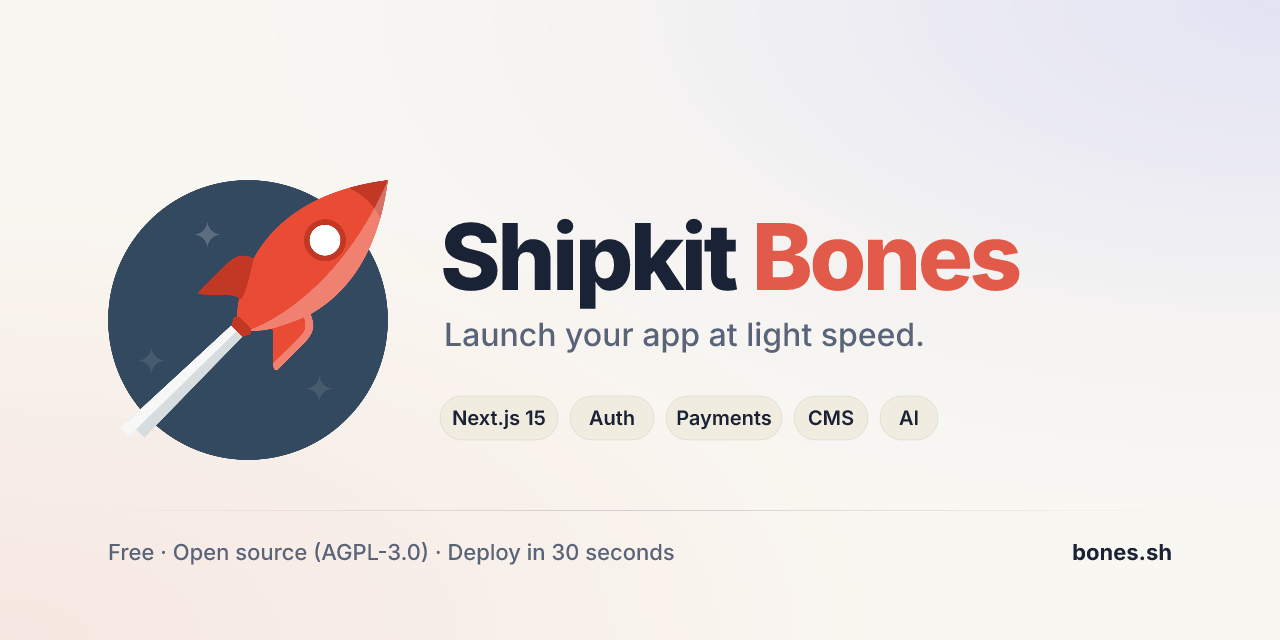
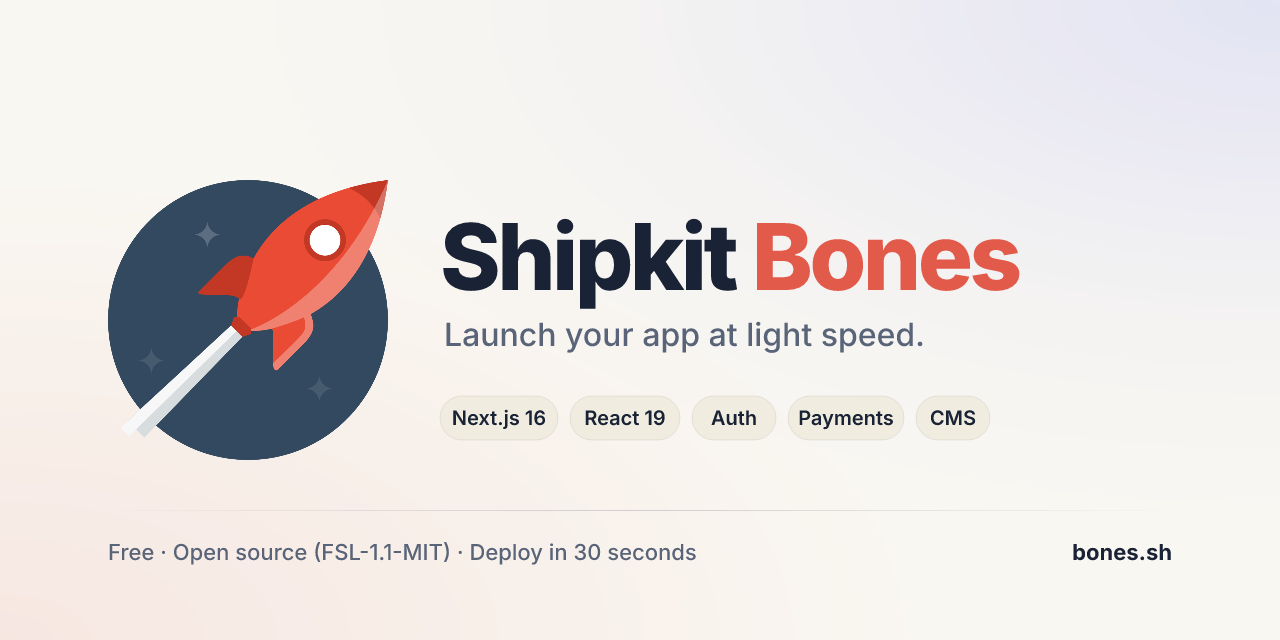
chore: correct version refs in polish artifacts (#30)
After the relicense PR (#29) landed, the social-preview banner and
CONTRIBUTING.md still carried two stale facts that no longer matched
package.json reality:

- "Next.js 15" → Next.js 16 (package.json: next@16.1.6)
- "AGPL-3.0" footer on social-preview → FSL-1.1-MIT
- Added "React 19" chip (package.json: react@19.2.4) since the
  framework version is one of the most useful signals for a
  Next.js boilerplate's social card

Updated:
- .github/CONTRIBUTING.md intro
- .github/assets/social-preview.{svg,png} (re-rendered)

Final upload via Settings → General → Social preview (no API).

Changed region(s): [[0.625, 0.625, 0.7812, 0.6875], [0.25, 0.8438, 0.5625, 0.875], [0.4062, 0.625, 0.5938, 0.6875]]

diff --git a/.github/CONTRIBUTING.md b/.github/CONTRIBUTING.md
@@ -1,6 +1,6 @@
 # Contributing to Shipkit Bones
 
-Thanks for your interest. **Shipkit Bones** is the free, source-available (FSL-1.1-MIT) boilerplate that the rest of the Shipkit ecosystem builds on. It's a Next.js 15 (App Router + TypeScript) starter with Tailwind, Shadcn/UI, Drizzle ORM, Payload CMS, and integrations across auth, payments, email, and AI providers.
+Thanks for your interest. **Shipkit Bones** is the free, source-available (FSL-1.1-MIT) boilerplate that the rest of the Shipkit ecosystem builds on. It's a Next.js 16 + React 19 (App Router + TypeScript) starter with Tailwind, Shadcn/UI, Drizzle ORM, Payload CMS, and integrations across auth, payments, email, and AI providers.
 
 ## Quick start
 